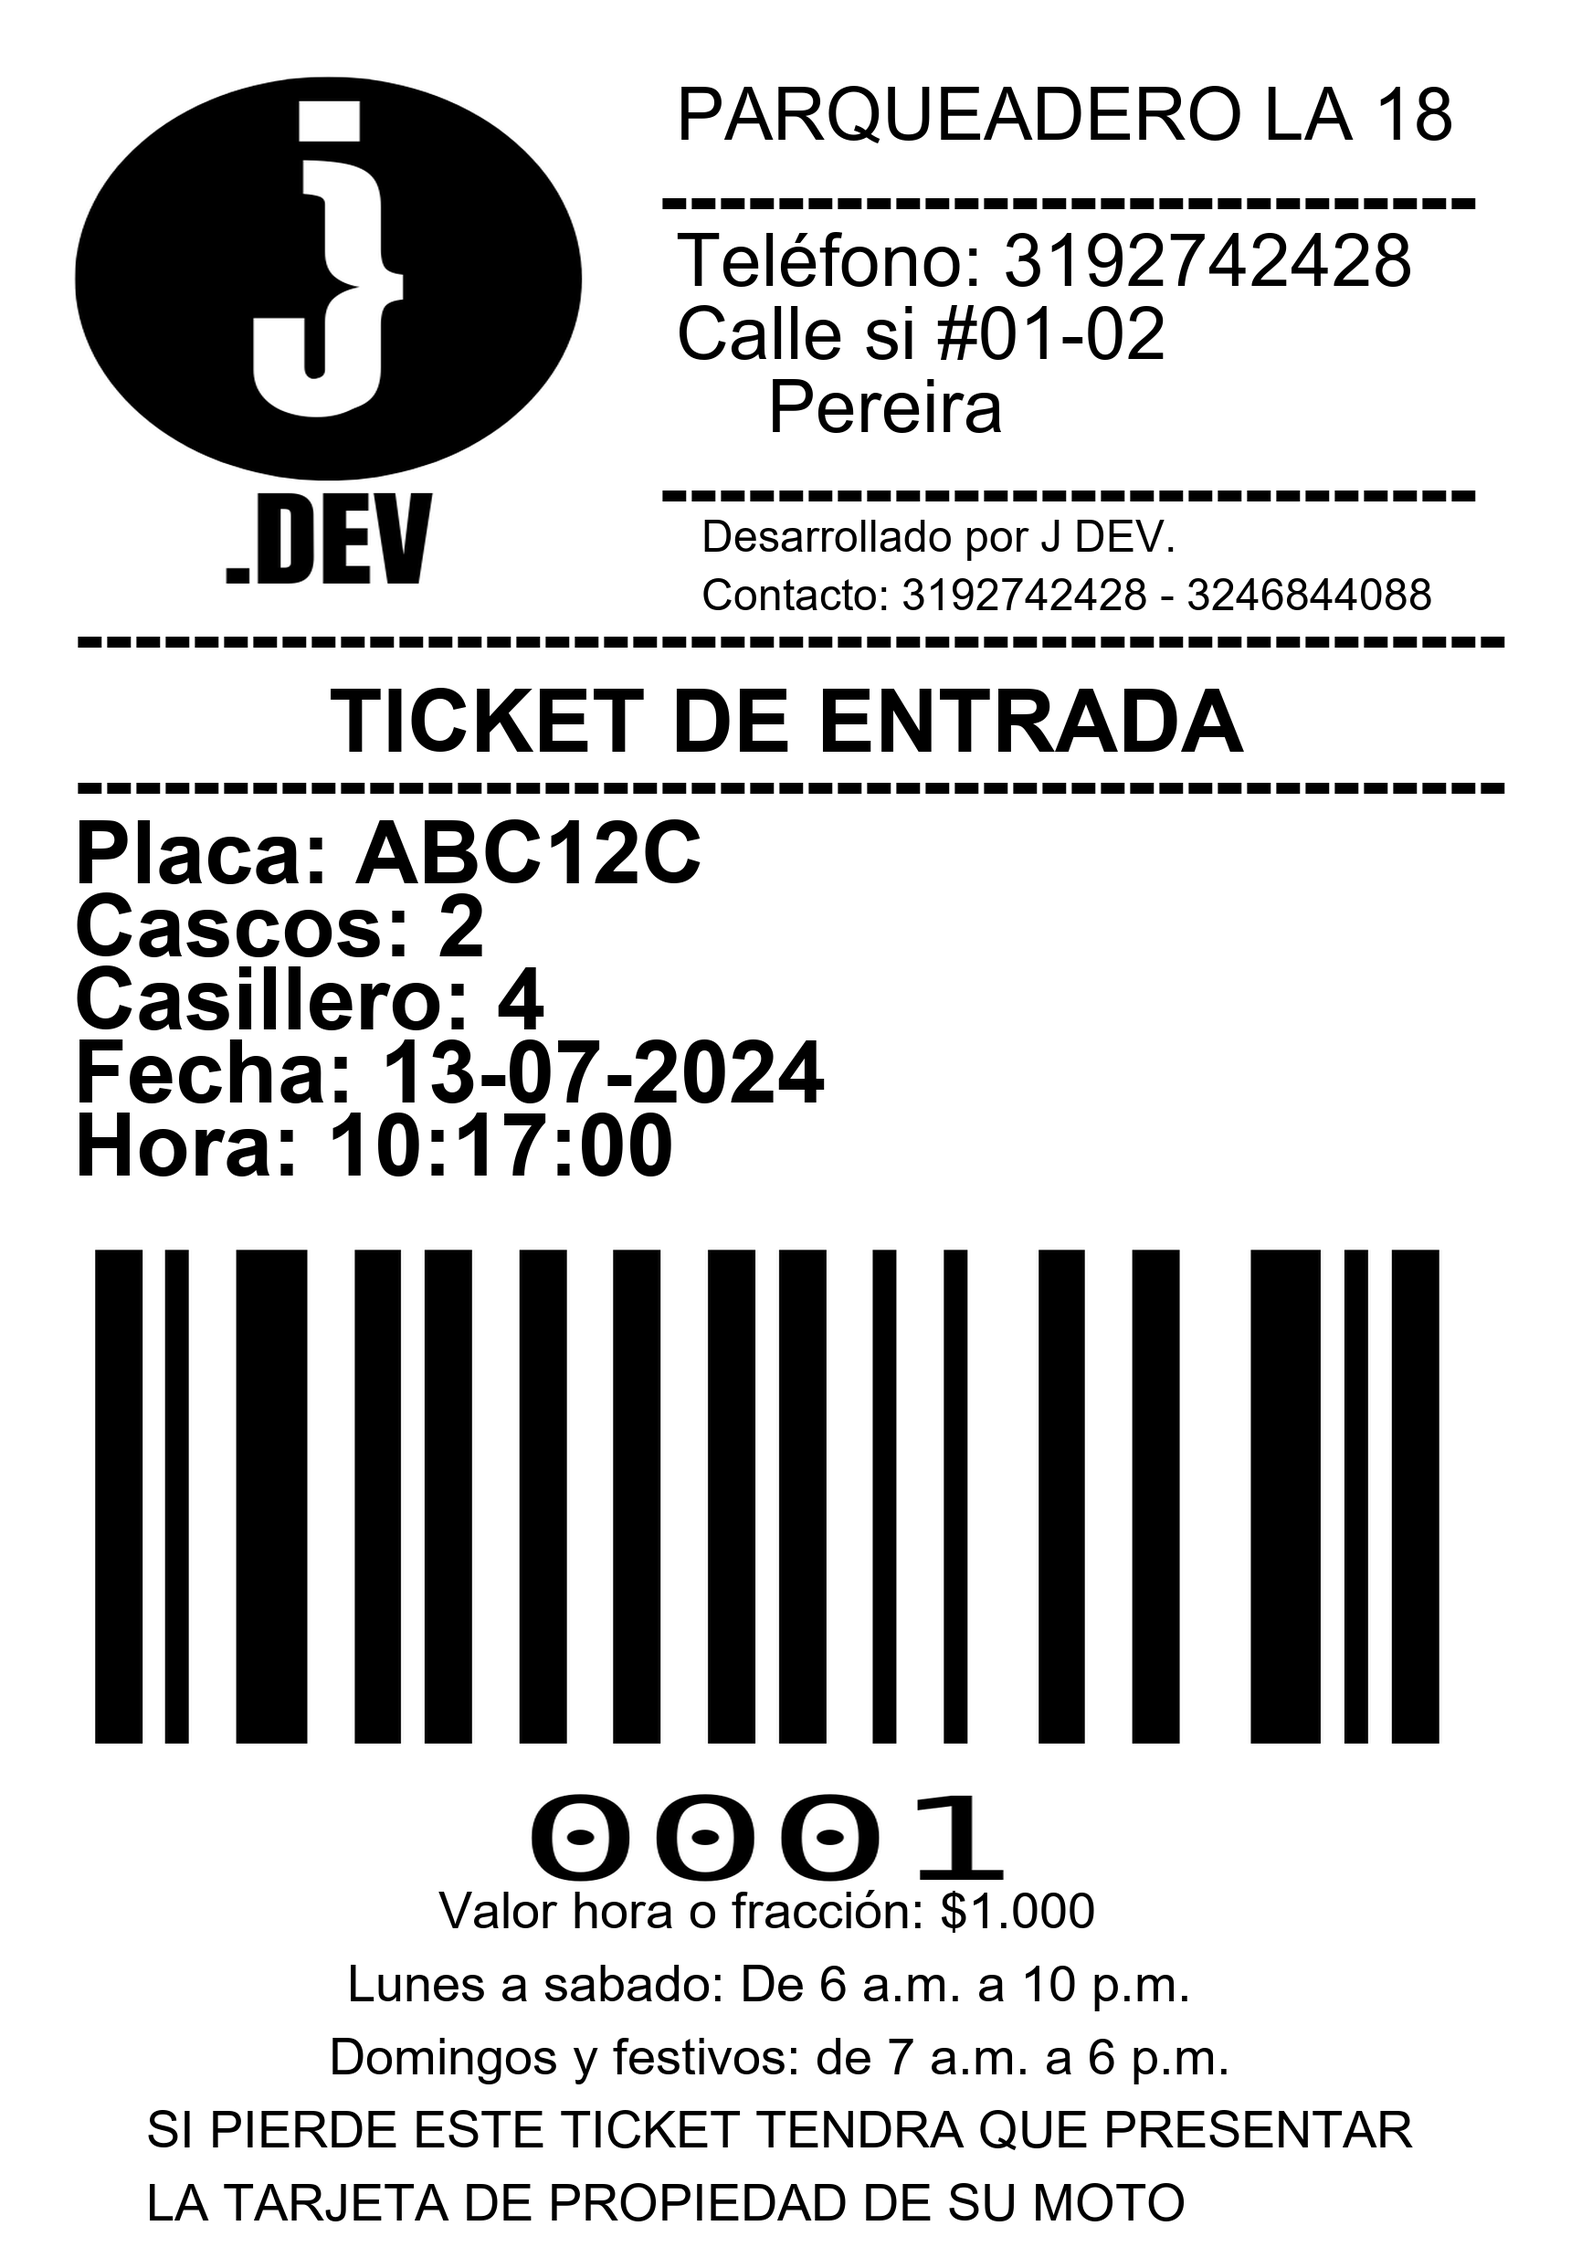
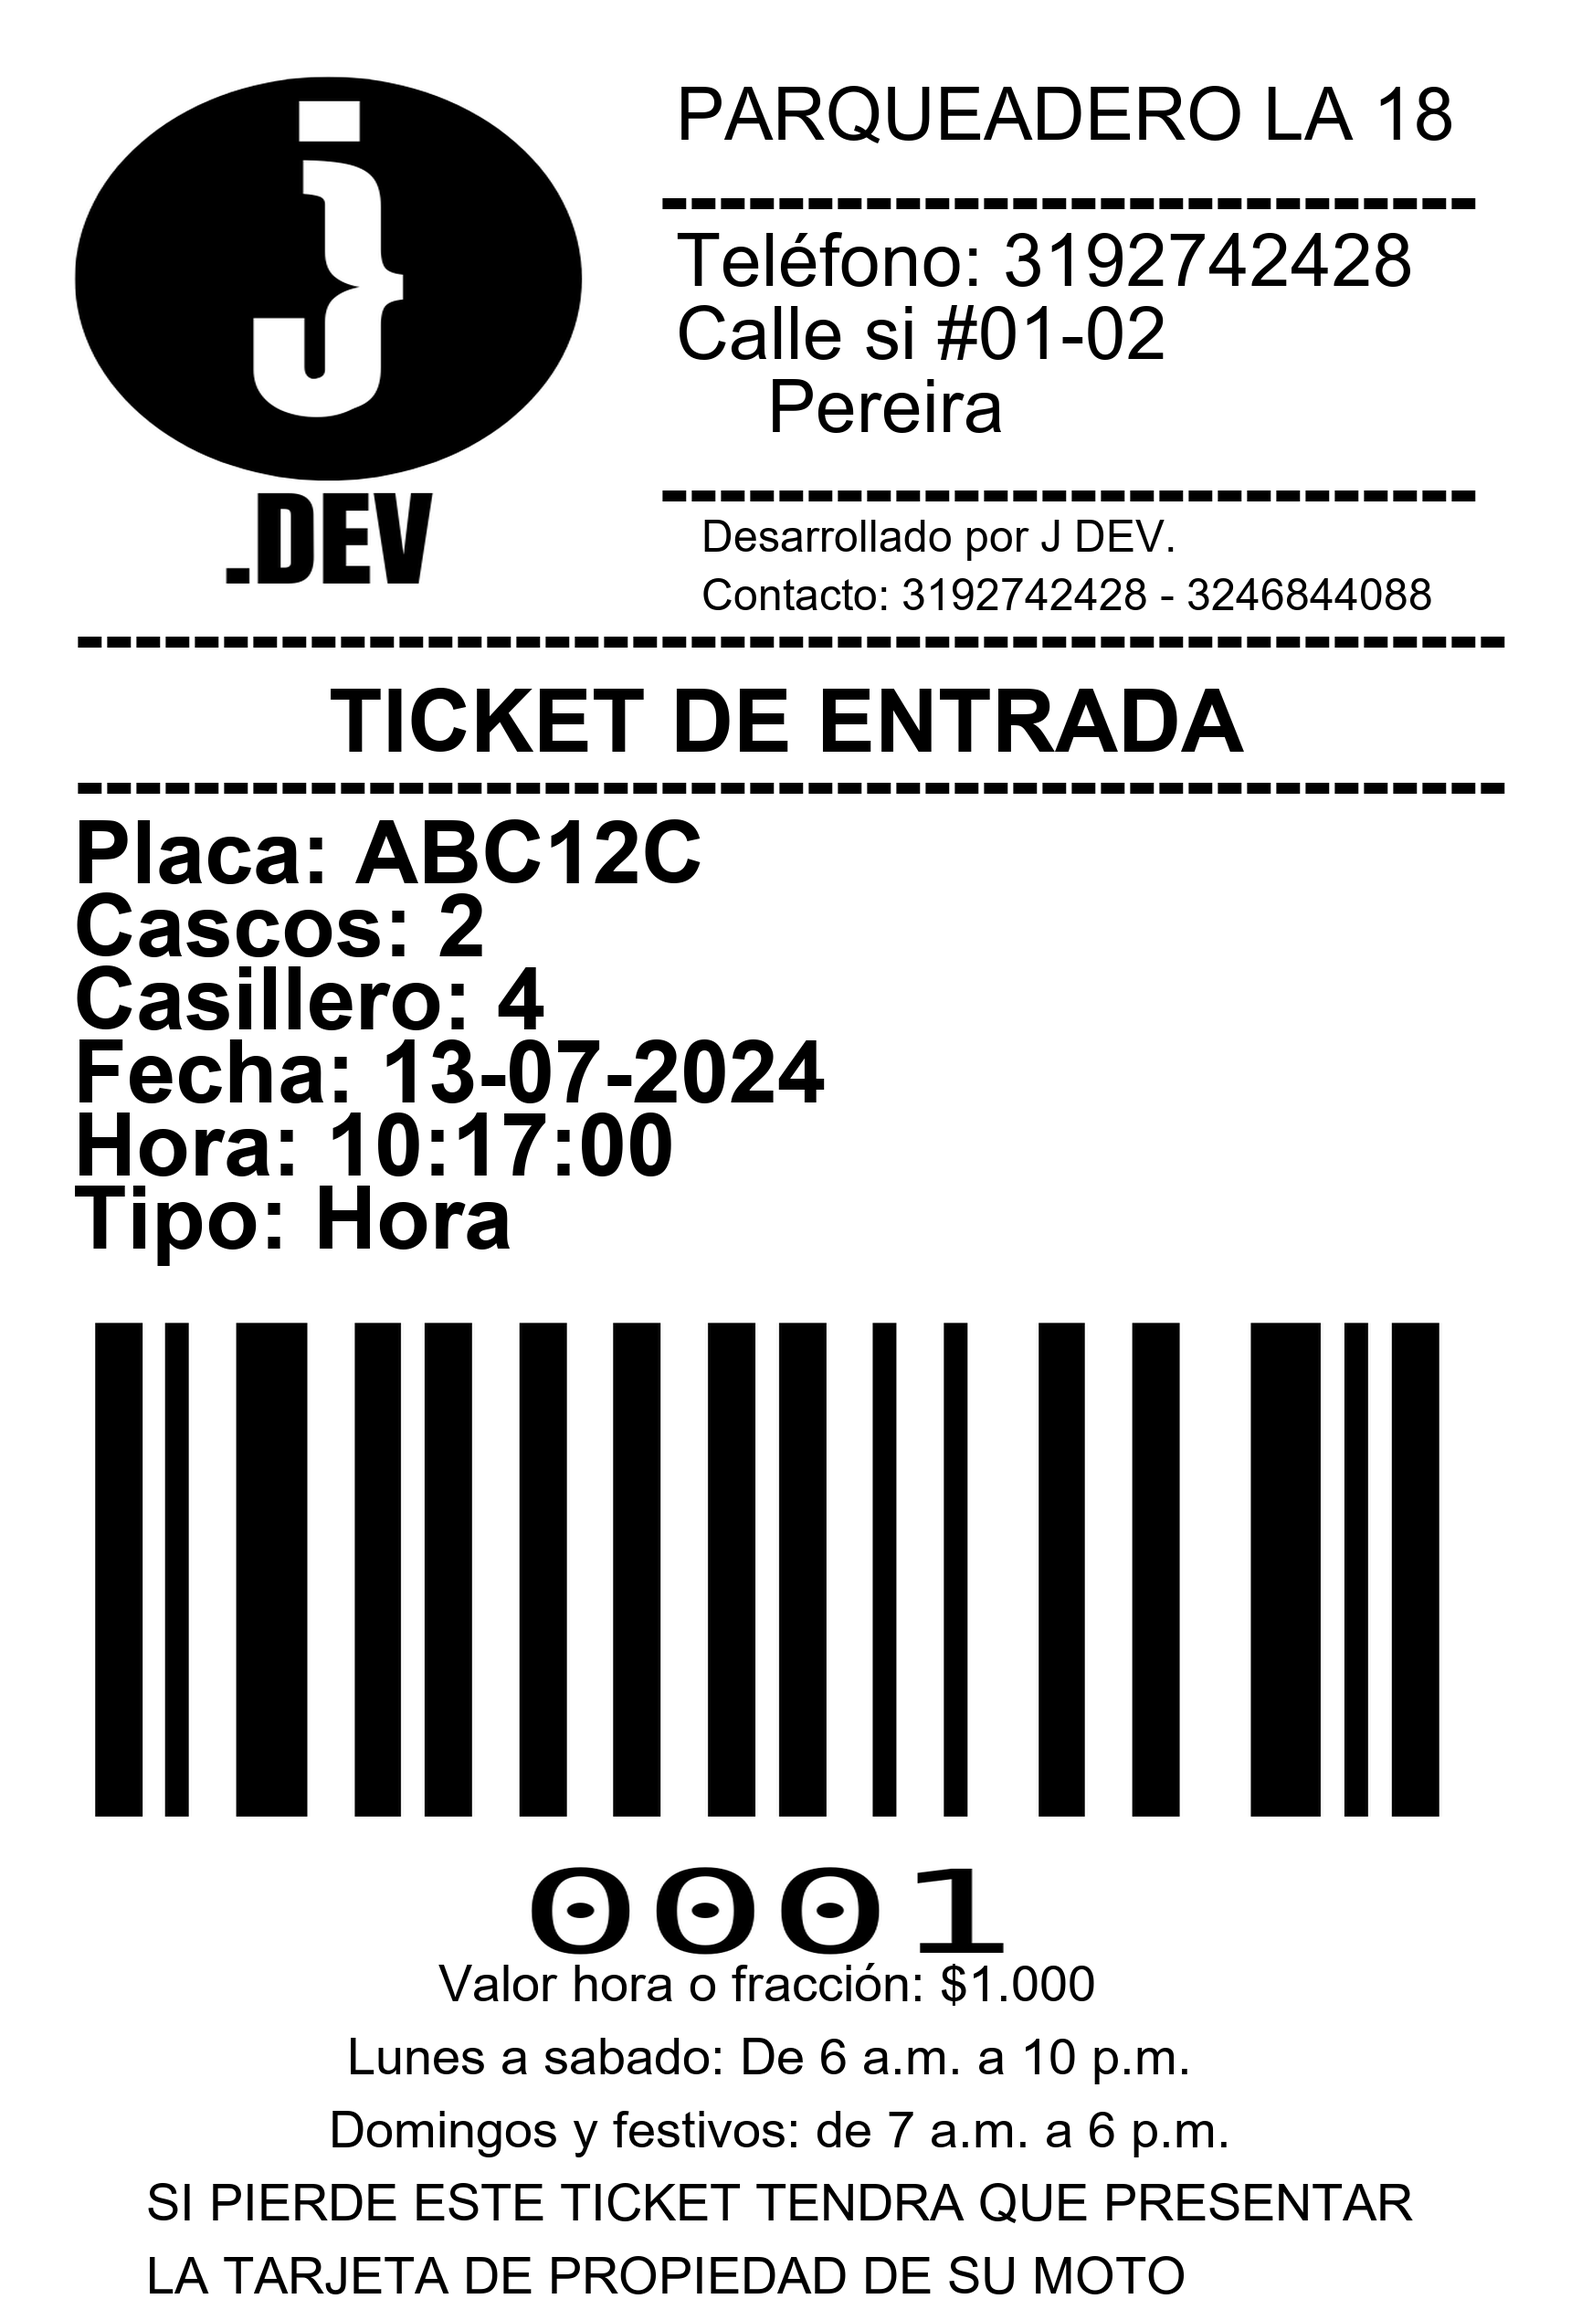
Se arregló el ticket de Ingreso

diff --git a/TicketIngresoMoto.py b/TicketIngresoMoto.py
@@ -3,9 +3,9 @@ import barcode
 from barcode.writer import ImageWriter
 
 # Función para generar y guardar el recibo como imagen con dimensiones de POS y logo
-def generarTicketIngresoMoto(Placa, Cascos, Casillero, Fecha, Hora, codigo_barras, ruta_logo, ruta_guardado):
+def generarTicketIngresoMoto(Tipo,Placa, Cascos, Casillero, Fecha, Hora, codigo_barras, ruta_logo, ruta_guardado):
     # Dimensiones típicas de un recibo POS, aumentadas para mejorar calidad
-    width, height = 1720, 2460  # Duplicar el tamaño original nuevamente para mejorar la calidad de impresión
+    width, height = 1720, 2540  # Duplicar el tamaño original nuevamente para mejorar la calidad de impresión
     img = Image.new('RGB', (width, height), color='white')
     d = ImageDraw.Draw(img)
 
@@ -45,7 +45,7 @@ def generarTicketIngresoMoto(Placa, Cascos, Casillero, Fecha, Hora, codigo_barra
     d.text((80, 1040), f"Casillero: {Casillero}", font=font_bold, fill='black')
     d.text((80, 1120), f"Fecha: {Fecha}", font=font_bold, fill='black')
     d.text((80, 1200), f"Hora: {Hora}", font=font_bold, fill='black')
-    
+    d.text((80, 1280), f"Tipo: {Tipo}", font=font_bold, fill='black')
     # Generar código de barras
     cod_barra = barcode.get_barcode_class('code128')
     codigo = cod_barra(codigo_barras, writer=ImageWriter())
@@ -55,20 +55,21 @@ def generarTicketIngresoMoto(Placa, Cascos, Casillero, Fecha, Hora, codigo_barra
     # Cargar y colocar el código de barras en la imagen
     codigo_barra = Image.open('codigo_barras.png')
     codigo_barra = codigo_barra.resize((1600, 800), Image.LANCZOS)
-    img.paste(codigo_barra, (40, 1360))
+    img.paste(codigo_barra, (40, 1440))
     # Información restante
     font = ImageFont.truetype("arial.ttf", 56)
-    d.text((480, 2060), f"Valor hora o fracción: $1.000", font=font, fill='black')
-    d.text((380, 2140), f"Lunes a sabado: De 6 a.m. a 10 p.m.", font=font, fill='black')
-    d.text((360, 2220), f"Domingos y festivos: de 7 a.m. a 6 p.m.", font=font, fill='black')
-    d.text((160, 2300), f"SI PIERDE ESTE TICKET TENDRA QUE PRESENTAR ", font=font, fill='black')
-    d.text((160, 2380), f"LA TARJETA DE PROPIEDAD DE SU MOTO", font=font, fill='black')
+    d.text((480, 2140), f"Valor hora o fracción: $1.000", font=font, fill='black')
+    d.text((380, 2220), f"Lunes a sabado: De 6 a.m. a 10 p.m.", font=font, fill='black')
+    d.text((360, 2300), f"Domingos y festivos: de 7 a.m. a 6 p.m.", font=font, fill='black')
+    d.text((160, 2380), f"SI PIERDE ESTE TICKET TENDRA QUE PRESENTAR ", font=font, fill='black')
+    d.text((160, 2460), f"LA TARJETA DE PROPIEDAD DE SU MOTO", font=font, fill='black')
     # Guardar la imagen en la ruta especificada
     img.save(ruta_guardado)
 
     print(f"Recibo generado y guardado en: {ruta_guardado}")
 
 # Ejemplo de uso
+Tipo = "Hora"
 Placa = "ABC12C"
 Cascos = "2"
 Casillero = "4"
@@ -78,4 +79,4 @@ codigo_barras = "0001"
 ruta_logo = r"C:\Users\Impor\OneDrive\Escritorio\Parqueadero\SoftwareParqueadero\Logo.png"
 ruta_guardado = r"C:\Users\Impor\OneDrive\Escritorio\Parqueadero\SoftwareParqueadero\TicketIngresoMoto.png"
 
-generarTicketIngresoMoto(Placa, Cascos, Casillero, Fecha, Hora, codigo_barras, ruta_logo, ruta_guardado)
+generarTicketIngresoMoto(Tipo,Placa, Cascos, Casillero, Fecha, Hora, codigo_barras, ruta_logo, ruta_guardado)
